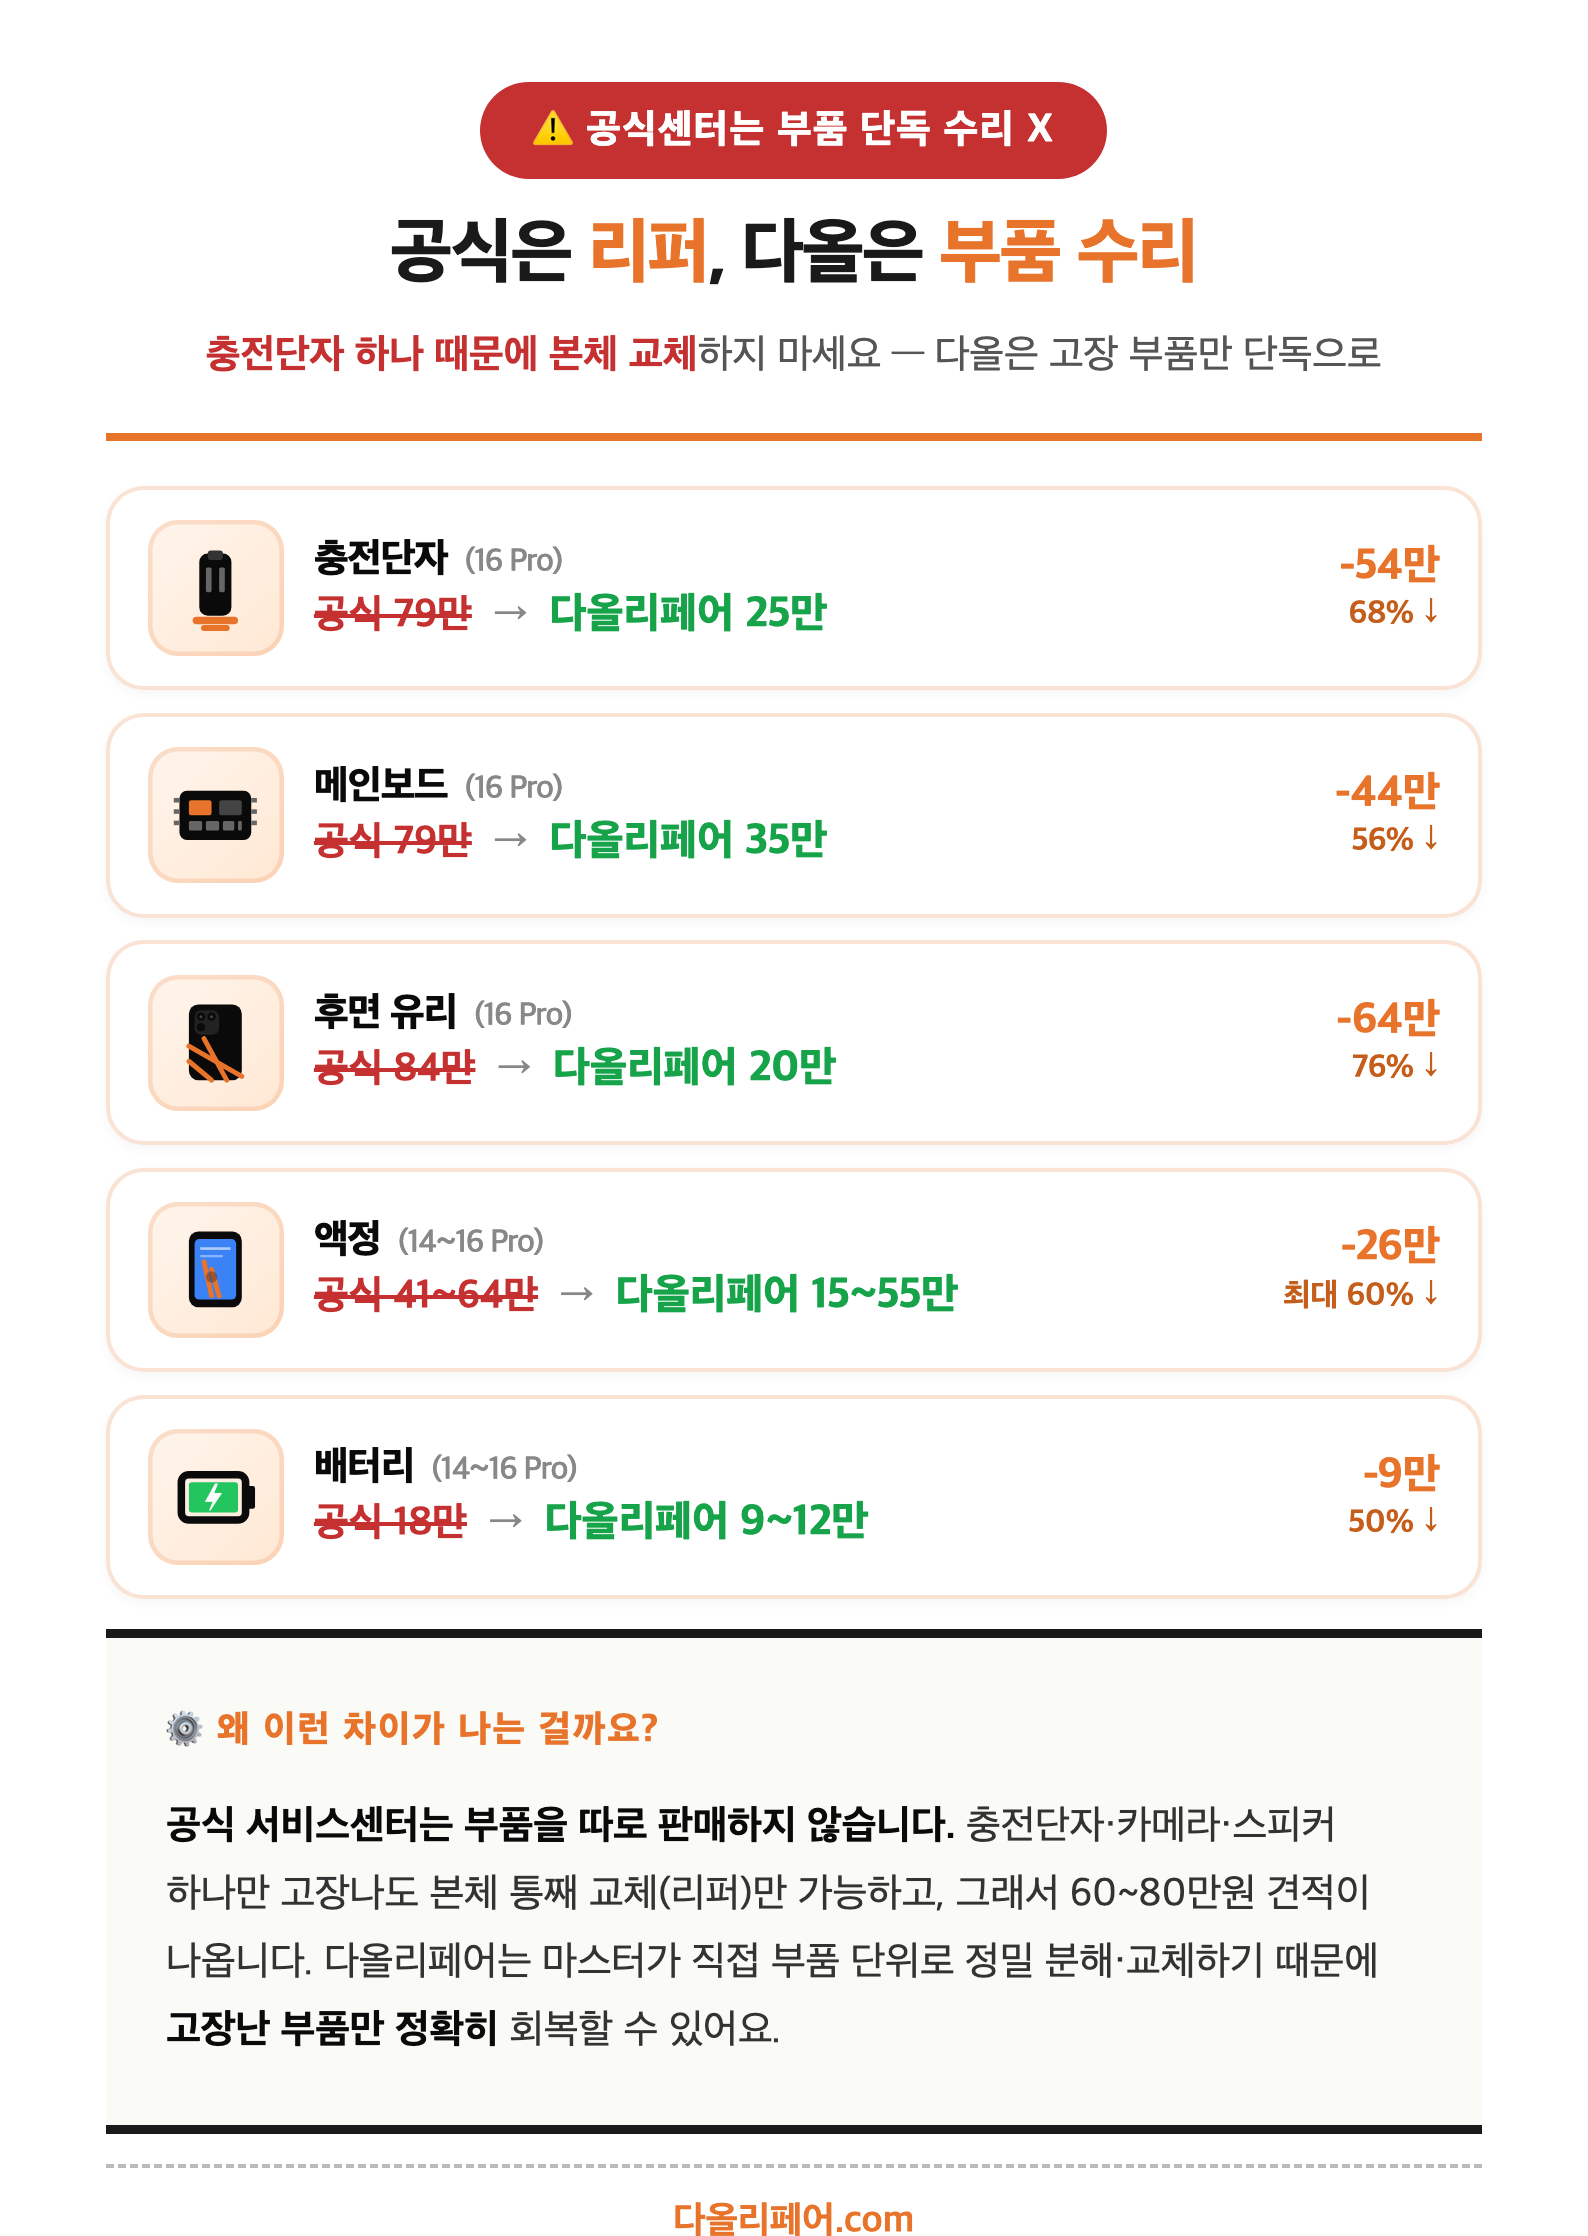
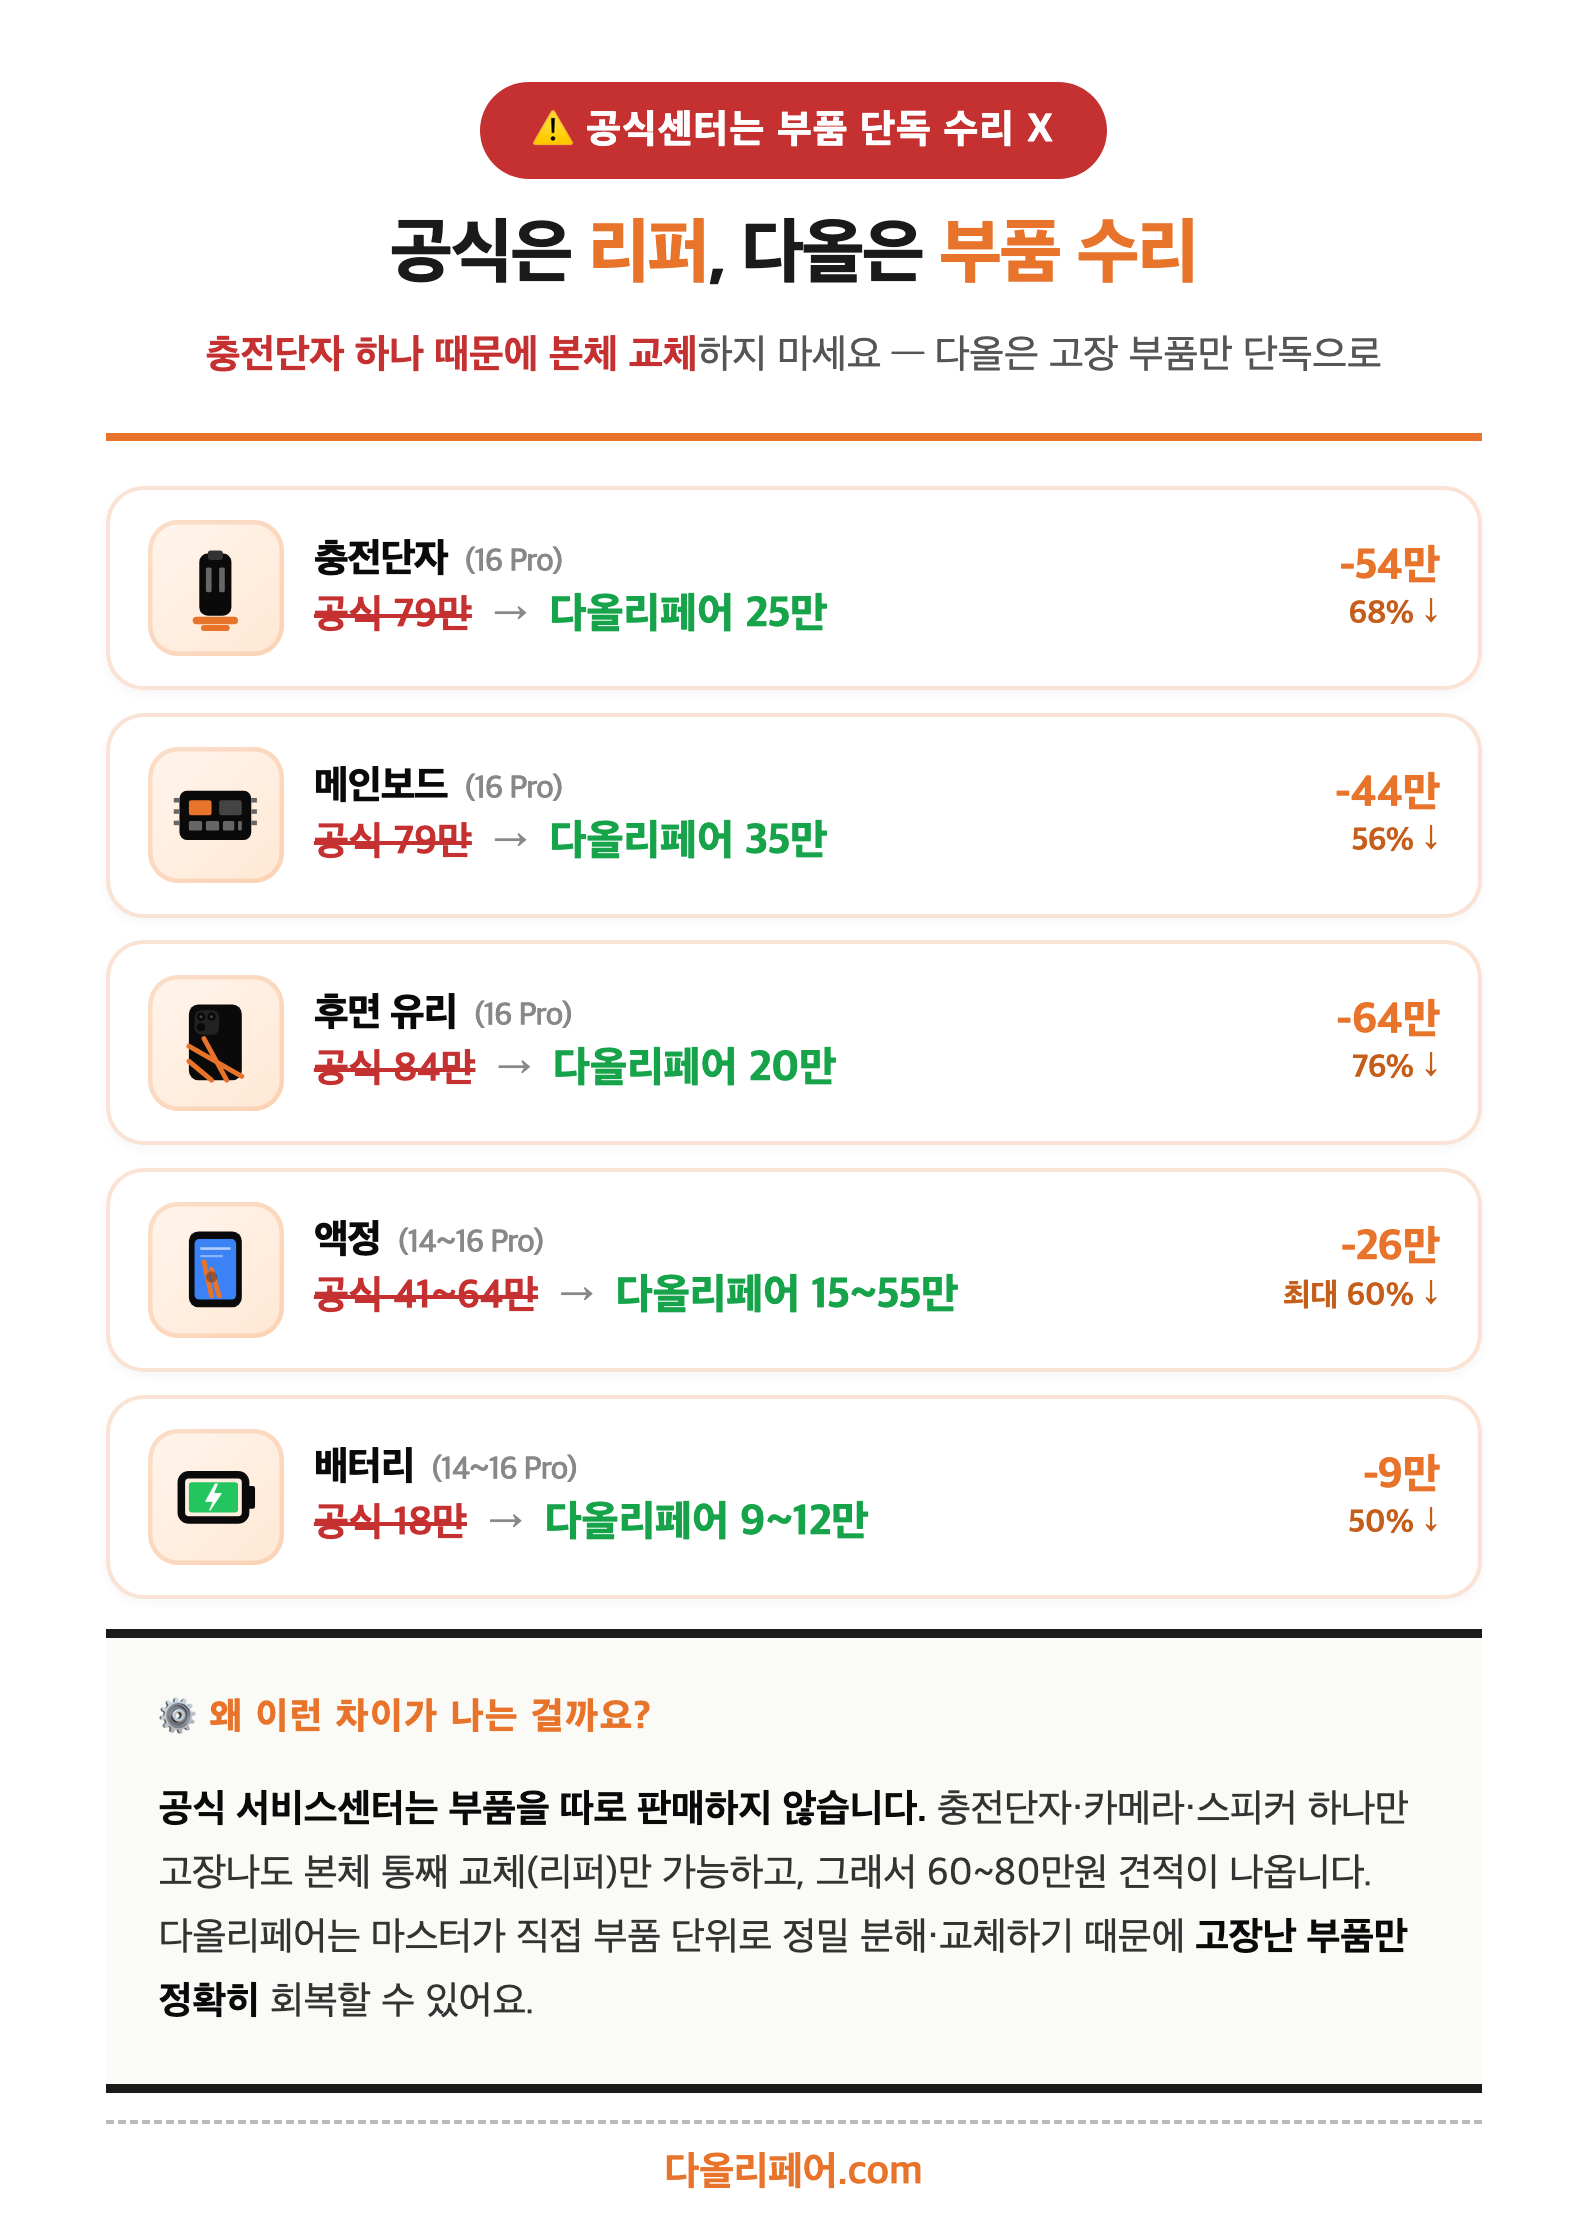
공식 vs 다올 A6 — footer '다올리페어.com' 잘림 보완 (카드 padding-bottom·foot-note·footer 미세 조정)

Changed region(s): [[0.0617, 0.7406, 0.9257, 1.0]]

diff --git a/articles/notice-price-comparison-print.html b/articles/notice-price-comparison-print.html
@@ -39,7 +39,7 @@
       margin: 0 auto;
       background: #fff;
       box-shadow: 0 4px 24px rgba(0,0,0,0.12);
-      padding: 5mm 7mm 4mm;
+      padding: 5mm 7mm 3mm;
       display: flex;
       flex-direction: column;
       color: #1a1a1a;
@@ -179,10 +179,10 @@
       background: #fafaf7;
       border-top: 0.6mm solid #1a1a1a;
       border-bottom: 0.6mm solid #1a1a1a;
-      padding: 4mm 4mm 4mm;
+      padding: 3.2mm 3.5mm;
       margin-top: auto;
-      font-size: 7.5pt;
-      line-height: 1.7;
+      font-size: 7.3pt;
+      line-height: 1.65;
       color: #333;
       word-break: keep-all;
     }
@@ -197,13 +197,13 @@
     }
 
     .a6-footer {
-      margin-top: 2mm;
-      padding-top: 1.8mm;
+      margin-top: 1.8mm;
+      padding-top: 1.5mm;
       border-top: 1px dashed #bbb;
-      font-size: 7pt;
+      font-size: 7.5pt;
       color: #666;
       text-align: center;
-      line-height: 1.4;
+      line-height: 1.3;
     }
     .a6-footer .url { color: #E8732A; font-weight: 700; }
 

diff --git a/dist/articles/notice-price-comparison-print.html b/dist/articles/notice-price-comparison-print.html
@@ -39,7 +39,7 @@
       margin: 0 auto;
       background: #fff;
       box-shadow: 0 4px 24px rgba(0,0,0,0.12);
-      padding: 5mm 7mm 4mm;
+      padding: 5mm 7mm 3mm;
       display: flex;
       flex-direction: column;
       color: #1a1a1a;
@@ -179,10 +179,10 @@
       background: #fafaf7;
       border-top: 0.6mm solid #1a1a1a;
       border-bottom: 0.6mm solid #1a1a1a;
-      padding: 4mm 4mm 4mm;
+      padding: 3.2mm 3.5mm;
       margin-top: auto;
-      font-size: 7.5pt;
-      line-height: 1.7;
+      font-size: 7.3pt;
+      line-height: 1.65;
       color: #333;
       word-break: keep-all;
     }
@@ -197,13 +197,13 @@
     }
 
     .a6-footer {
-      margin-top: 2mm;
-      padding-top: 1.8mm;
+      margin-top: 1.8mm;
+      padding-top: 1.5mm;
       border-top: 1px dashed #bbb;
-      font-size: 7pt;
+      font-size: 7.5pt;
       color: #666;
       text-align: center;
-      line-height: 1.4;
+      line-height: 1.3;
     }
     .a6-footer .url { color: #E8732A; font-weight: 700; }
 
